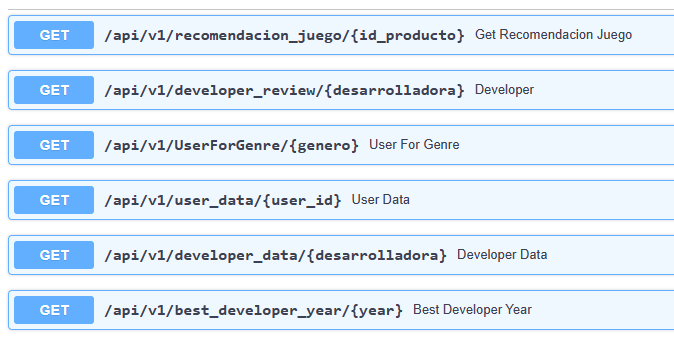
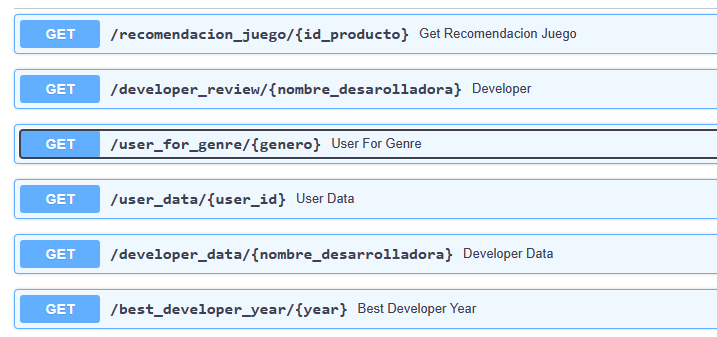
ready for deploy

Changed region(s): [[0.0, 0.0297, 1.0, 0.9792]]

diff --git a/main.py b/main.py
@@ -1,41 +1,21 @@
 import pandas as pd
 from fastapi import FastAPI
-from recomendacion_juego import recomendacion_juego
-from developer_review import developer_endpoint
-from user_for_genre import UserForGenre
-from user_data import UserData
-from analyze_developer_data import analyze_developer_data
-from best_developer_year import BestDeveloperYear
-from fastapi.middleware.cors import CORSMiddleware
+from src.recomendacion_juego import recomendacion_juego
+from src.developer_review import developer_endpoint
+from src.user_for_genre import UserForGenre
+from src.user_data import UserData
+from src.analyze_developer_data import analyze_developer_data
+from src.best_developer_year import BestDeveloperYear
 
 app = FastAPI()
 
 
-origins = [
-    "http://localhost.onrender.com",
-    "https://localhost.onrender.com",
-    "http://localhost",
-    "http://localhost:8080",
-]
-
-app.add_middleware(
-    CORSMiddleware,
-    allow_origins=origins,
-    allow_credentials=True,
-    allow_methods=["*"],
-    allow_headers=["*"],
-)
-
-
-@app.get("/")
-async def main():
-    return {"message": "Bienvenido a mi proyecto."}
 
 
 #Endpoint 1
 
-@app.get("recomendacion_juego/{id_producto}")
-async def get_recomendacion_juego(id_producto: int):
+@app.get("/recomendacion_juego/{id_producto}")
+def get_recomendacion_juego(id_producto: int):
     '''Ingresa el ID de un Juego y te recomendara 5 similares. 
 
     Ejemplo: { recomendaciones': [{ 'id': 679460,'title': 'Morendar: Goblin Slayer'},{'id': 770380,'title': 'Army of Tentacles: (Not) A Cthulhu Dating Sim: Black GOAT of the Woods Edition'}]}
@@ -48,19 +28,19 @@ async def get_recomendacion_juego(id_producto: int):
 
 #Endpoint 2
 
-@app.get("developer_review/{nombre_desarolladora}")
-def developer(desarrolladora: str):
+@app.get("/developer_review/{nombre_desarolladora}")
+def developer(nombre_desarolladora: str):
     '''Se devuelve un diccionario con el nombre del desarrollador como llave y una lista con la cantidad total de registros de reseñas de usuarios que se encuentren categorizados con un análisis de sentimiento como valor positivo o negativo.
     
     Ejemplo de retorno: {'Valve' : [Negative = 182, Positive = 278]}
     '''
     
-    return developer_endpoint(desarrolladora)
+    return developer_endpoint(nombre_desarolladora)
 
 
 #Endpoint 3
 
-@app.get("user_for_genre/{genero}")
+@app.get("/user_for_genre/{genero}")
 def user_for_genre(genero: str):
     '''
     Devuelve el ID  del usuario que acumula más horas jugadas para el género dado y una lista de la acumulación de horas jugadas por año.
@@ -76,7 +56,7 @@ def user_for_genre(genero: str):
 
 #Entpoint 4
 
-@app.get("user_data/{user_id}")
+@app.get("/user_data/{user_id}")
 def user_data(user_id:str):
 
     '''
@@ -88,19 +68,19 @@ def user_data(user_id:str):
     return resultado
 
 
-@app.get('developer_data/{nombre_desarrolladora}')
-def developer_data(desarrolladora: str):
+@app.get('/developer_data/{nombre_desarrolladora}')
+def developer_data(nombre_desarrolladora: str):
 
     '''
     Cantidad de items y porcentaje de contenido Free por año según empresa desarrolladora.
     
     '''
 
-    resultado = analyze_developer_data( desarrolladora)
+    resultado = analyze_developer_data(nombre_desarrolladora)
     return resultado
     
 
-@app.get("best_developer_year/{year}")
+@app.get("/best_developer_year/{year}")
 def best_developer_year(year: int):
 
     '''
